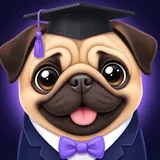
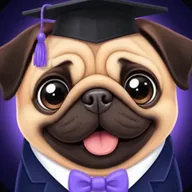
Animate the chat pug with Igor's looping clip
The chat button and chat header now play a 3s seamless loop (head
tilt, tongue, tassel) as a tiny muted WebM with an MP4 fallback for
Safari (~16-18 KB each, 192px). The still first frame is the poster,
the message avatar, and what reduced-motion users see; the button's
clip pauses while the chat is open. Drops the CSS bob it replaces.

Claude-Session: https://claude.ai/code/session_0133xqTBMTHPNMaJxE91tzs4

diff --git a/src/components/ChatWidget.jsx b/src/components/ChatWidget.jsx
@@ -29,6 +29,10 @@ const HELLO_OFF_KEY = 'sp_pugHelloOffDate';
 const HELLO_EVERY_MS = 3 * 60 * 1000;
 const HELLO_SHOW_MS = 4500;
 
+function prefersReducedMotion() {
+  return typeof window !== 'undefined' && !!window.matchMedia?.('(prefers-reduced-motion: reduce)').matches;
+}
+
 function PugImg({ size, animation }) {
   return (
     <img
@@ -40,6 +44,40 @@ function PugImg({ size, animation }) {
       className={animation ? 'pug-anim' : undefined}
       style={{ width: size, height: size, borderRadius: '50%', display: 'block', objectFit: 'cover', animation, transformOrigin: '50% 80%' }}
     />
+  );
+}
+
+// The looping mascot clip (head tilt, tongue, tassel). Falls back to the
+// still image under reduced motion; `paused` freezes it (e.g. while the
+// chat sheet covers the button). The still is also the video's poster, so
+// nothing flashes while it loads.
+function PugLive({ size, paused = false, animation }) {
+  const ref = useRef(null);
+  const [still] = useState(prefersReducedMotion);
+  useEffect(() => {
+    const v = ref.current;
+    if (!v) return;
+    if (paused) v.pause();
+    else v.play().catch(() => {});
+  }, [paused]);
+  if (still) return <PugImg size={size} />;
+  return (
+    <video
+      ref={ref}
+      autoPlay
+      loop
+      muted
+      playsInline
+      disablePictureInPicture
+      poster={PUG_SRC}
+      width={size}
+      height={size}
+      className={animation ? 'pug-anim' : undefined}
+      style={{ width: size, height: size, borderRadius: '50%', display: 'block', objectFit: 'cover', animation, transformOrigin: '50% 80%', pointerEvents: 'none' }}
+    >
+      <source src="/pug-loop.webm" type="video/webm" />
+      <source src="/pug-loop.mp4" type="video/mp4" />
+    </video>
   );
 }
 
@@ -285,7 +323,7 @@ export default function ChatWidget({ planner, weeklyCapacity, profileDefaults, s
           boxShadow: '0 10px 28px rgba(109,77,255,.45), 0 0 0 1px rgba(255,255,255,.08) inset', zIndex: 45,
         }}
       >
-        <PugImg size={49} animation={open ? 'none' : hello ? 'pugHello 1.1s ease-in-out' : 'pugIdle 3.6s ease-in-out infinite'} />
+        <PugLive size={49} paused={open} animation={hello && !open ? 'pugHello 1.1s ease-in-out' : undefined} />
       </div>
       )}
 
@@ -293,7 +331,7 @@ export default function ChatWidget({ planner, weeklyCapacity, profileDefaults, s
         <BottomSheet maxHeight="85%">
           <div style={{ display: 'flex', alignItems: 'center', gap: 11 }}>
             <div style={{ width: 40, height: 40, flex: 'none', borderRadius: '50%', padding: 2, boxSizing: 'border-box', background: 'linear-gradient(155deg,#8b6dff,#6d4dff)', boxShadow: '0 6px 16px rgba(109,77,255,.4)' }}>
-              <PugImg size={36} animation="pugIdle 4.2s ease-in-out infinite" />
+              <PugLive size={36} />
             </div>
             <div style={{ flex: 1, minWidth: 0 }}>
               <div style={{ fontSize: 16, fontWeight: 750, letterSpacing: '-.01em' }}>{t('chat.title')}</div>

diff --git a/src/index.css b/src/index.css
@@ -204,15 +204,8 @@ input, select, textarea {
   display: none;
 }
 
-/* Pulgo pug mascot (chat button/avatars): slow idle bob-and-tilt, a happy
-   hop when saying hi, and a pop-in for its speech bubble. */
-@keyframes pugIdle {
-  0%, 100% { transform: translateY(0) rotate(0deg) scale(1); }
-  20% { transform: translateY(-1.5px) rotate(-4deg) scale(1.02); }
-  40% { transform: translateY(0) rotate(0deg) scale(1); }
-  60% { transform: translateY(-1px) rotate(3deg) scale(1.03); }
-  80% { transform: translateY(0) rotate(0deg) scale(1); }
-}
+/* Pulgo pug mascot (chat button): a happy hop when saying hi, and a
+   pop-in for its speech bubble. The idle motion is the looping clip. */
 @keyframes pugHello {
   0%, 100% { transform: translateY(0) rotate(0deg) scale(1); }
   15% { transform: translateY(-7px) rotate(-8deg) scale(1.08); }
